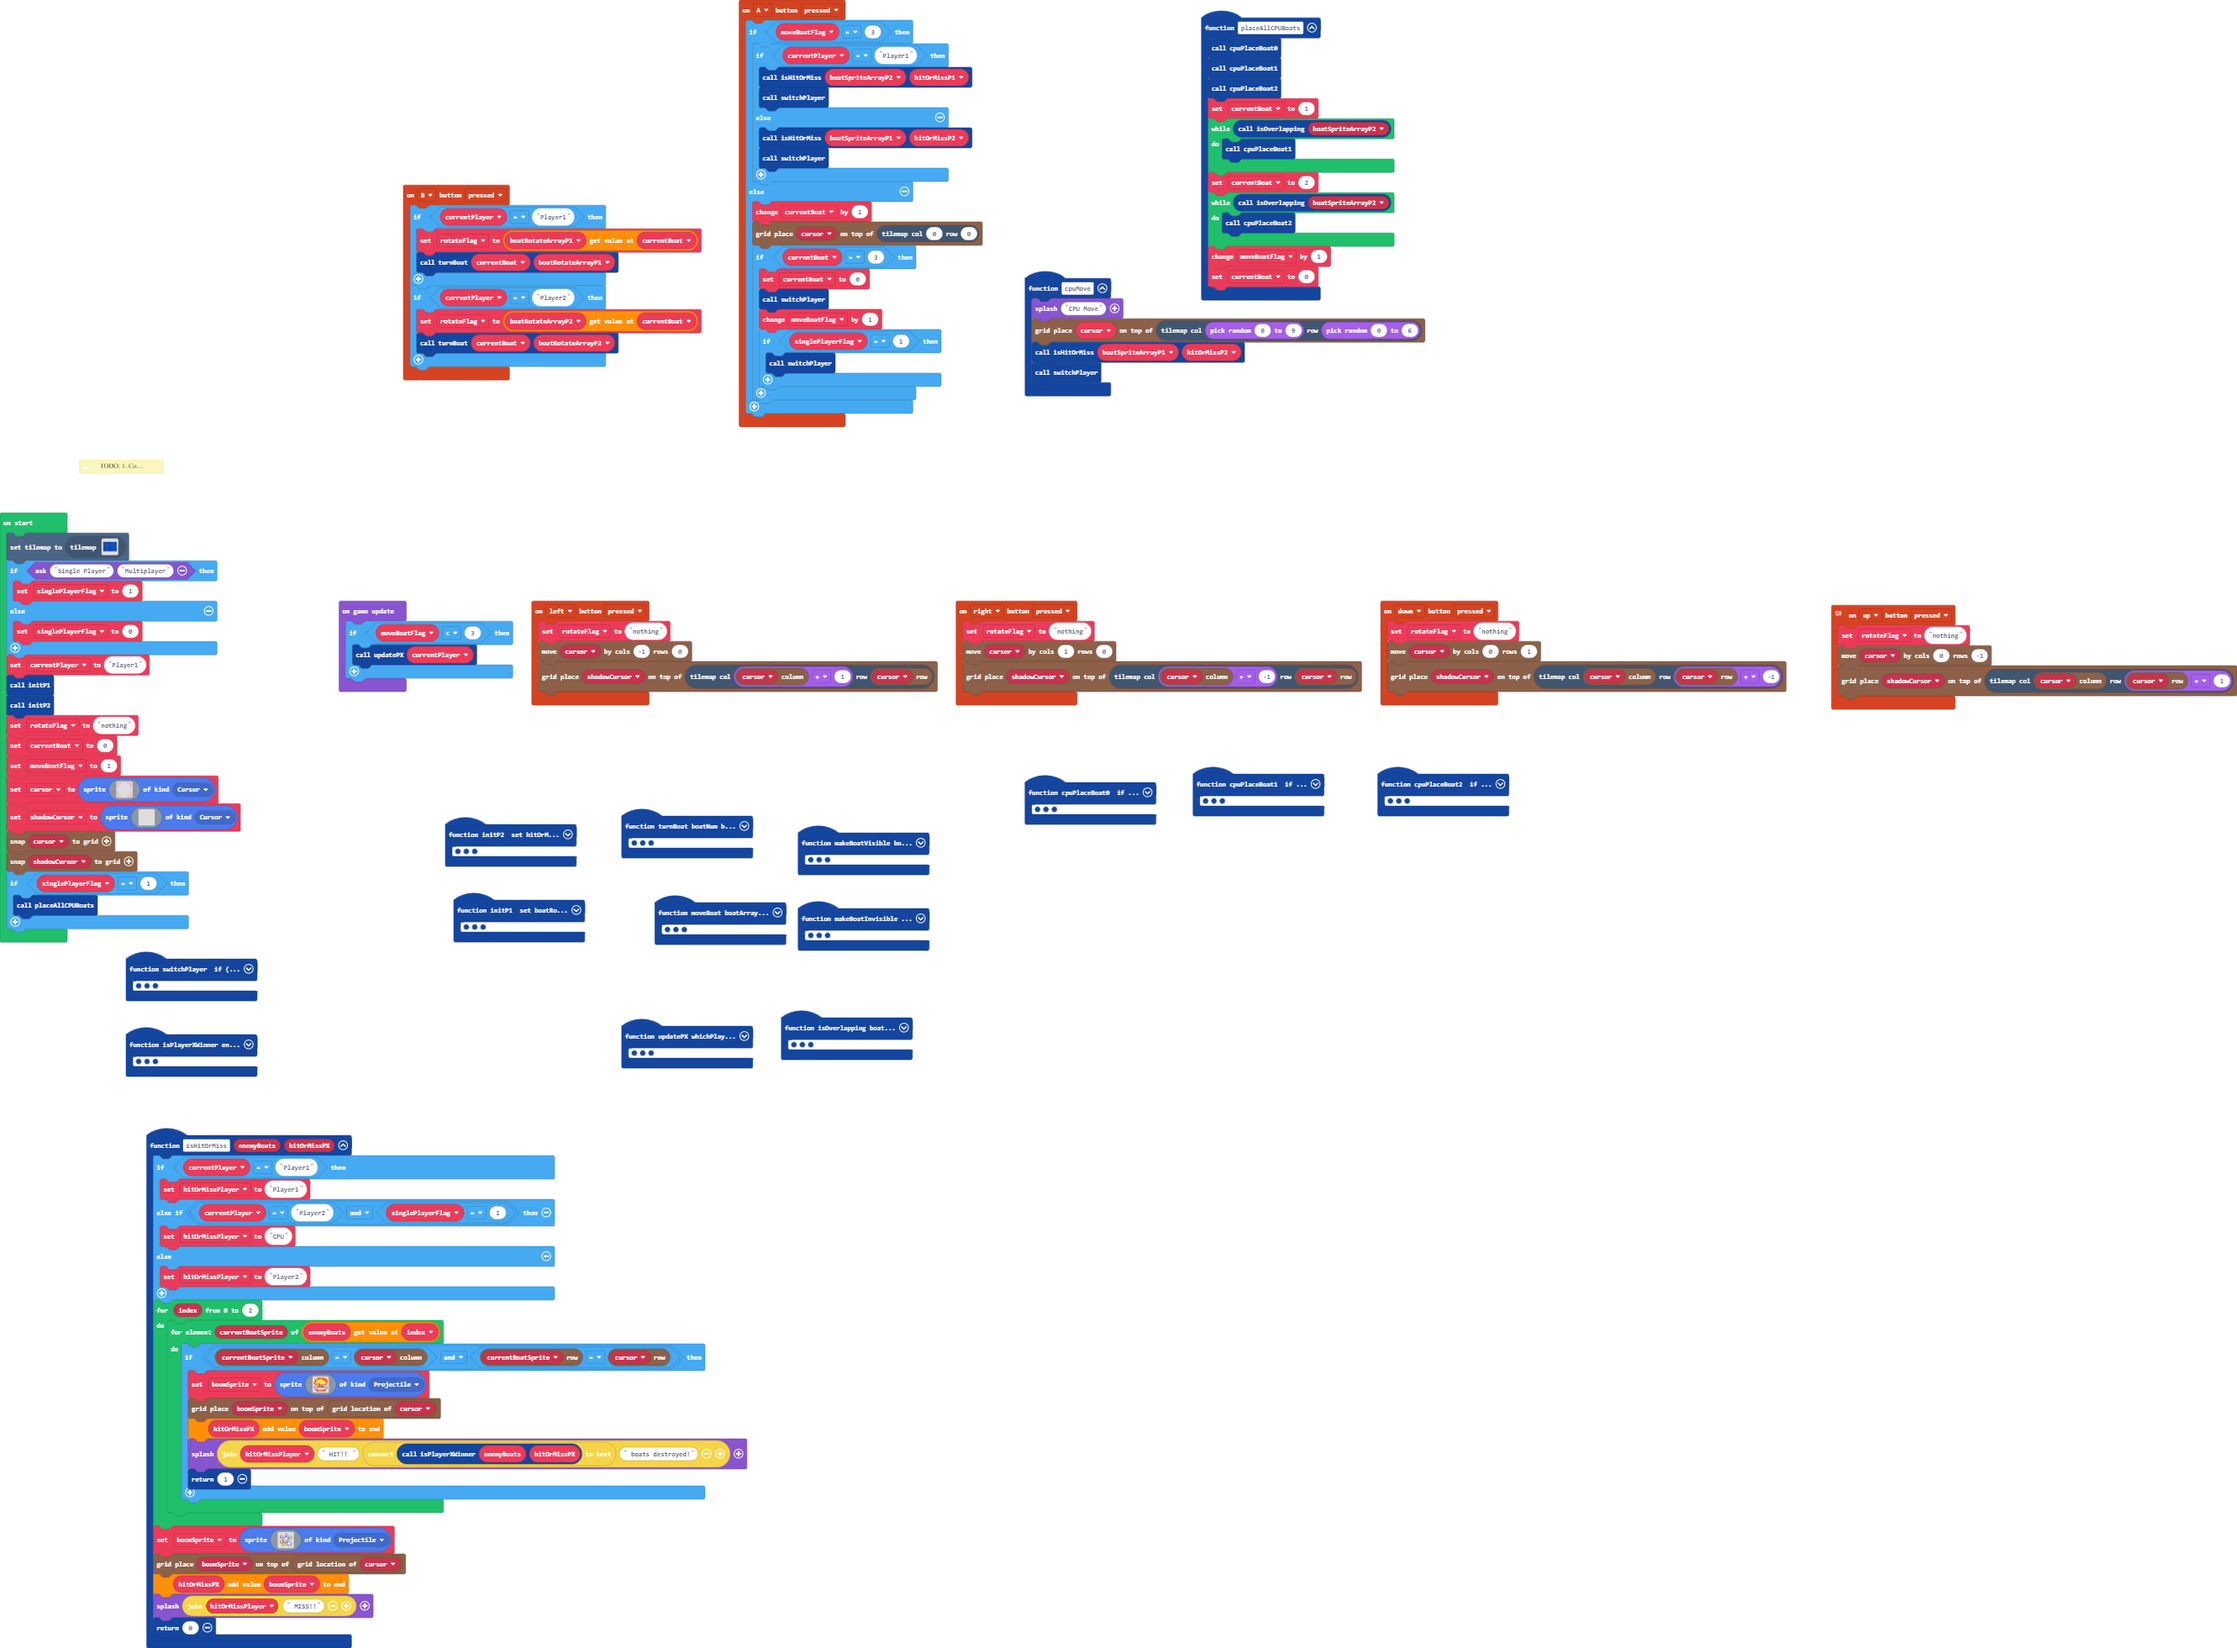
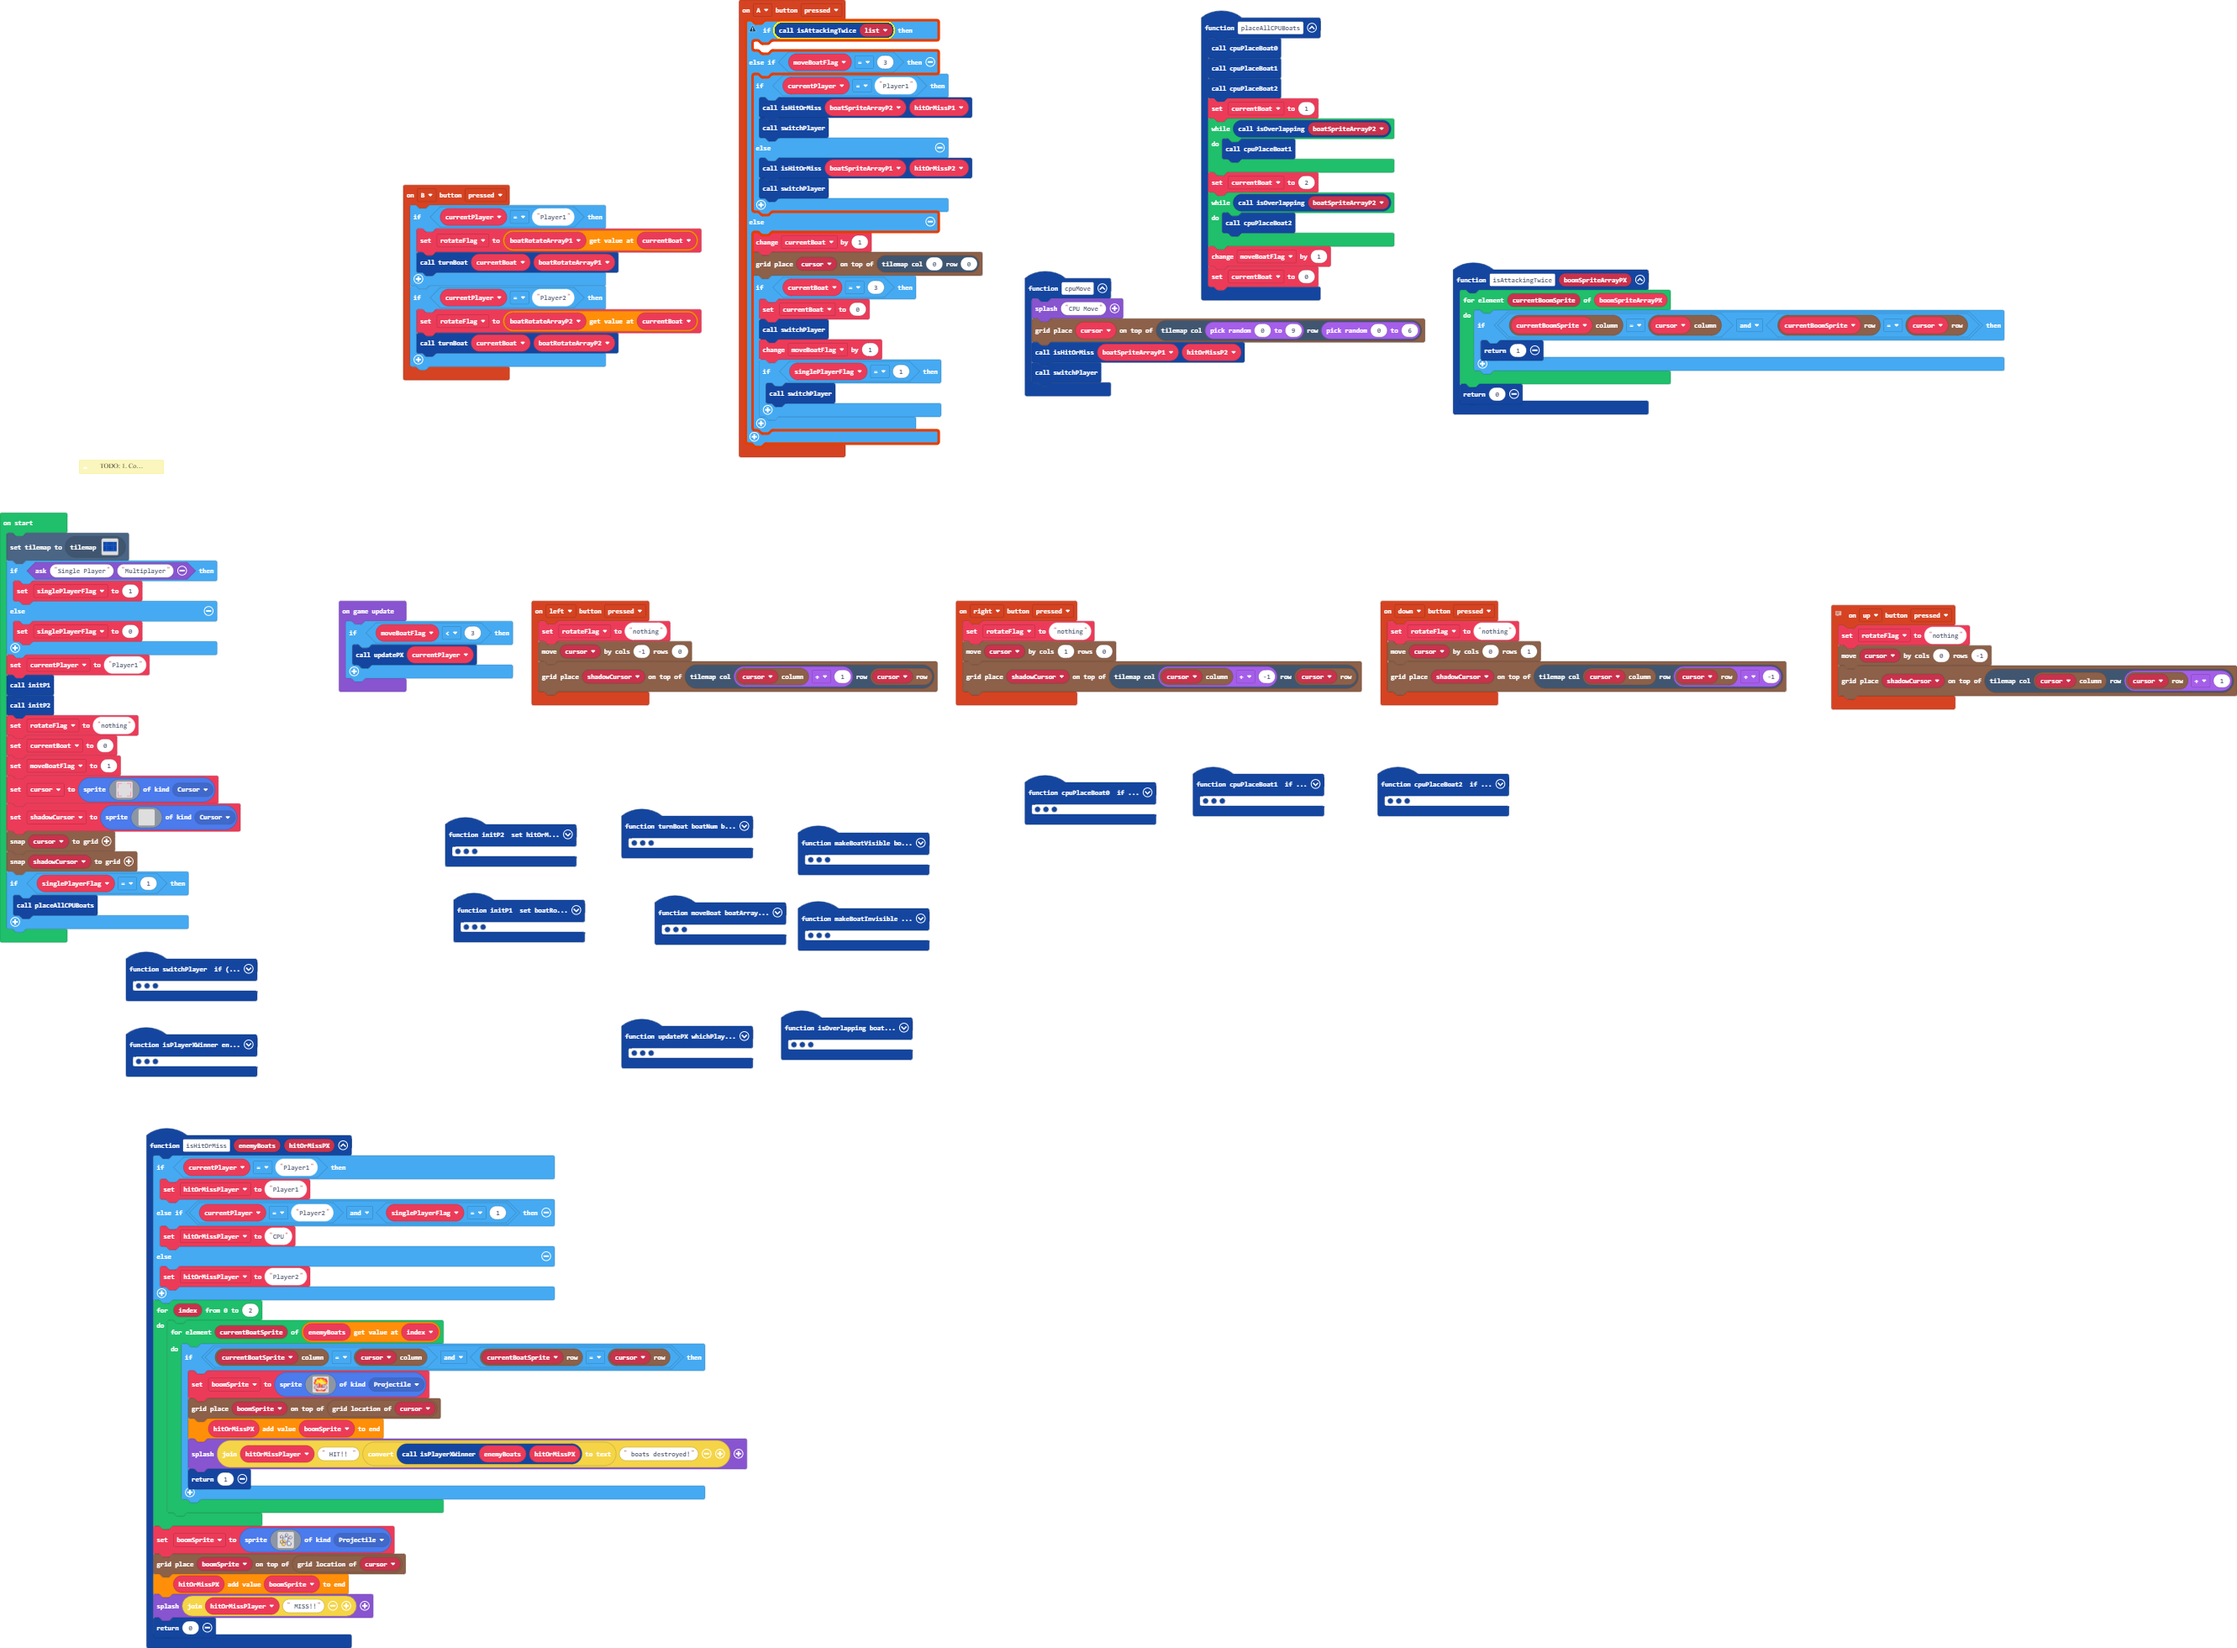
working on isAttackingTwice

Changed region(s): [[0.3118, 0.0, 0.4365, 0.28], [0.6236, 0.1555, 0.9042, 0.2489]]

diff --git a/main.ts b/main.ts
@@ -90,7 +90,10 @@ function isPlayerXWinner (enemyBoats: Sprite[][], hitOrMissPX: Sprite[]) {
     return killCount
 }
 controller.A.onEvent(ControllerButtonEvent.Pressed, function () {
-    if (moveBoatFlag == 3) {
+    let list: number[] = []
+    if (isAttackingTwice(list)) {
+    	
+    } else if (moveBoatFlag == 3) {
         if (currentPlayer == "Player1") {
             isHitOrMiss(boatSpriteArrayP2, hitOrMissP1)
             switchPlayer()
@@ -441,6 +444,14 @@ function cpuPlaceBoat1 () {
         grid.place(boatSpriteArrayP2[1][1], grid.add(grid.getLocation(cursor), 0, 1))
         grid.place(boatSpriteArrayP2[1][2], grid.add(grid.getLocation(cursor), 0, 2))
     }
+}
+function isAttackingTwice (boomSpriteArrayPX: Sprite[]) {
+    for (let currentBoomSprite of boomSpriteArrayPX) {
+        if (grid.spriteCol(currentBoomSprite) == grid.spriteCol(cursor) && grid.spriteRow(currentBoomSprite) == grid.spriteRow(cursor)) {
+            return 1
+        }
+    }
+    return 0
 }
 function initP2 () {
     hitOrMissP2 = [sprites.create(img`
